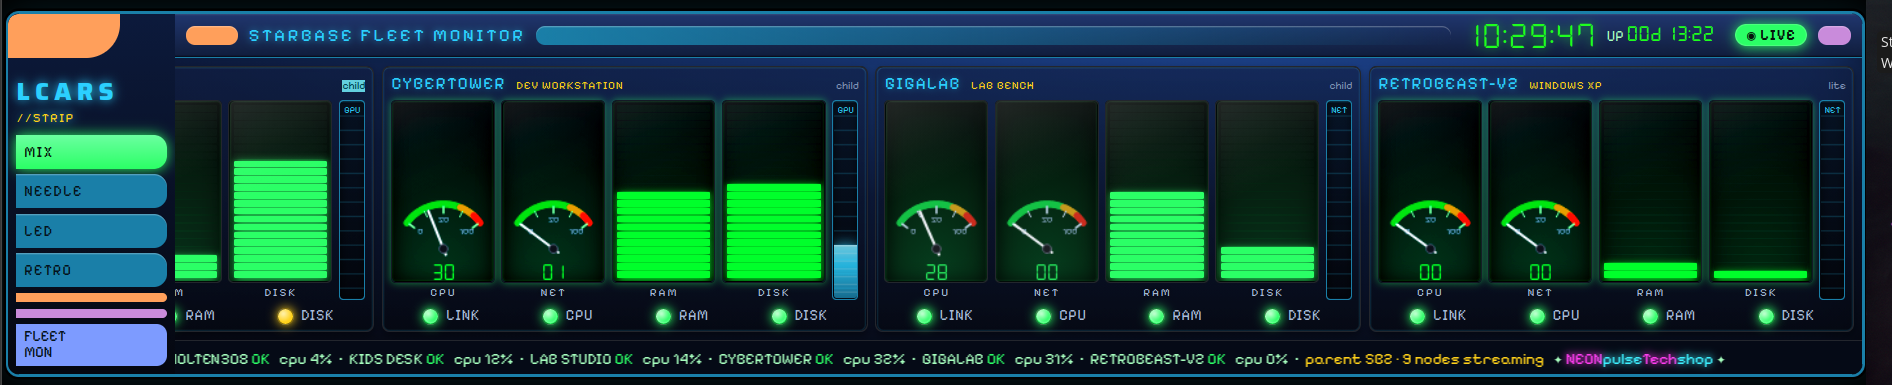
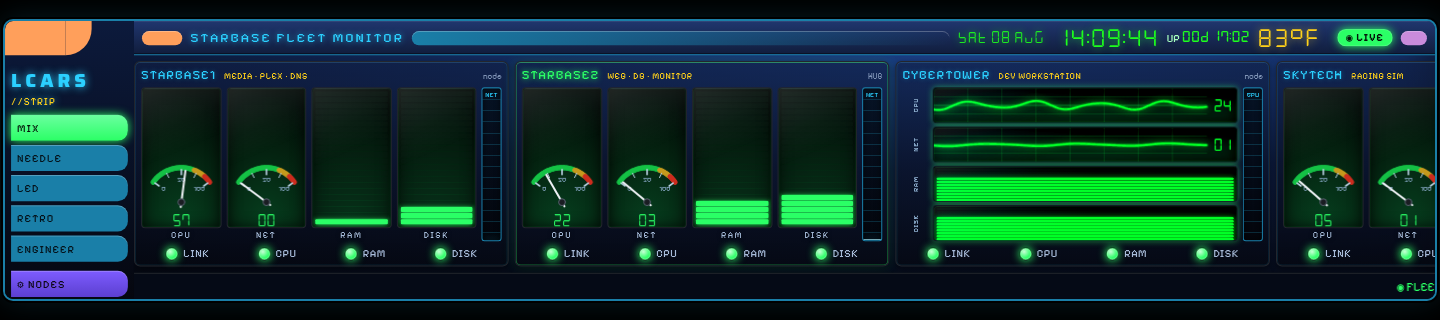
README: refresh hero + add captioned gallery
New hero shows the current build (date/temp header, stacked scopes,
ENGINEER pill). Gallery: RED ALERT overlay, WeatherStar conditions +
local radar faces, RETRO scope mode. Drill-down shot unchanged.

Claude-Session: https://claude.ai/code/session_016Pqnc9QYYrMorGcK3zHPNn

diff --git a/README.md b/README.md
@@ -55,6 +55,22 @@ node's agent port, it's on the strip.
   from the ⚙ console; the panel remembers your loadout. Cards whose meters
   are all scopes/LEDs auto-stack into wide bench-scope rows.
 
+## Gallery
+
+**🚨 RED ALERT** — translucent overlay, caution-tape frame, fleet still visible behind the alarm. Tap CLEAR to acknowledge.
+
+![RED ALERT overlay](docs/img/red_alert.png)
+
+**⛅ WeatherStar card** — current conditions in the Star4000 face, rotating with the local NOAA radar every 12 seconds.
+
+![WeatherStar conditions](docs/img/weatherstar.png)
+
+![Local radar face](docs/img/local_radar.png)
+
+**RETRO mode** — every card as stacked bench-scope rows; trace amplitude and sweep speed follow the load, zone-colored.
+
+![Retro oscilloscope mode](docs/img/retro_scopes.png)
+
 ## Install (panel host — Linux)
 
 **Debian/Ubuntu/Pop!_OS — grab the `.deb` from
